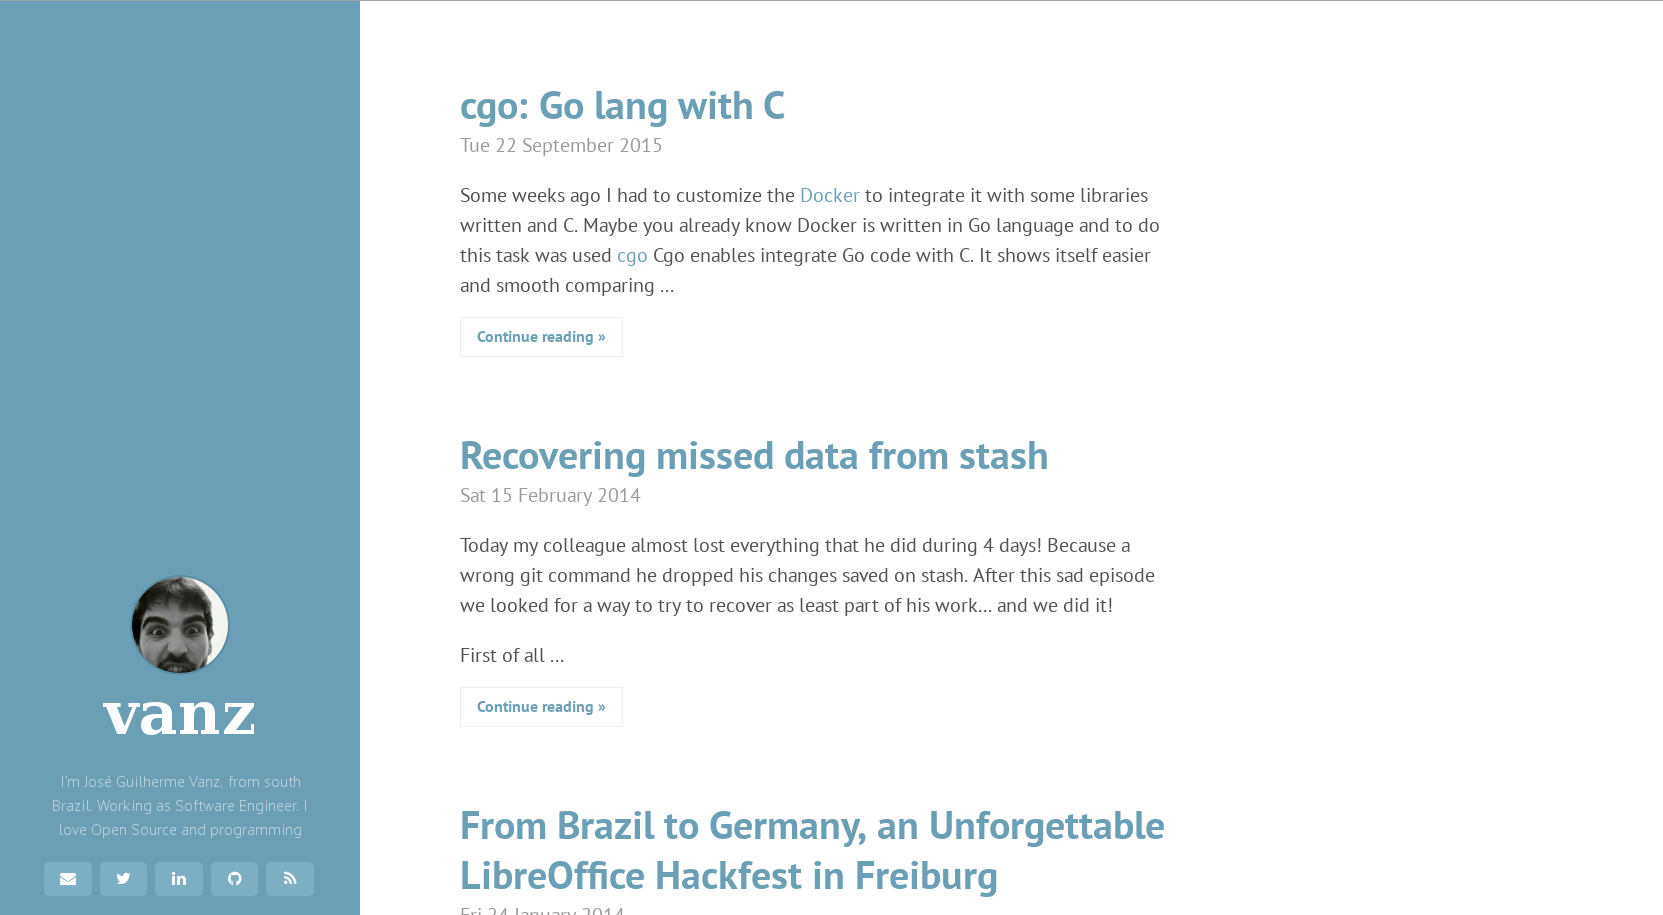
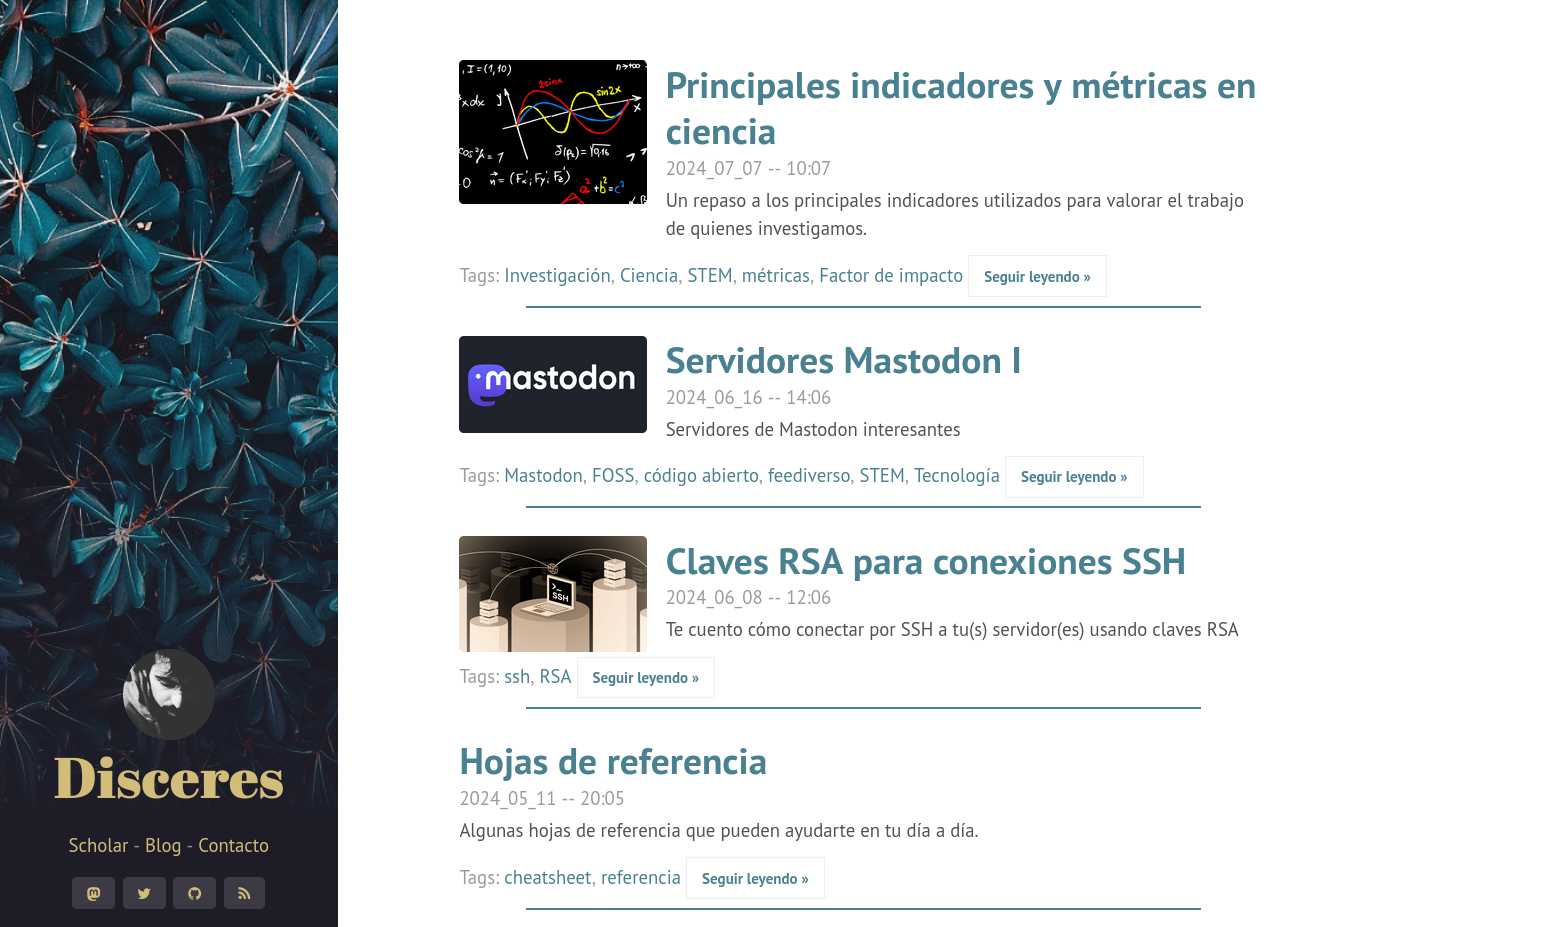
Forked from Hyde theme to Okulto

diff --git a/themes/okulto/README.md b/themes/okulto/README.md
@@ -1,14 +1,6 @@
 # pelican-hyde
 
-The pelican-hyde is a [Pelican](https://github.com/getpelican) theme inspired on the beautiful [Hyde](http://hyde.getpoole.com/) Jekyll theme
-
-You can see a live demo [here](http://jvanz.github.io/)
-
-
-![Screenshot](screenshot.png)
-
-Pull requests are welcome
-
+The pelican-okulto is a [Pelican](https://github.com/getpelican) theme based on [pelican-hide](https://github.com/jvanz/pelican-hyde/releases)
 
 ## Settings
 
@@ -48,6 +40,7 @@ to modify the templates.
 
 - Original theme by [Mark Otto](https://github.com/mdo): <https://github.com/poole/hyde>
 - Ported to Pelican by [José Guilherme Vanz](https://github.com/jvanz)
+- Modified by [Angel Lareo](https://github.com/angellareo)
 
 
 ## License
